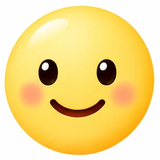
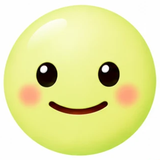
Portal: 11 wajah emoji untuk skala nyeri 0-10
Claude-Session: https://claude.ai/code/session_01173i8sz9dSwdbLdS3455aU

diff --git a/src/pages/portal/PatientPortalPage.jsx b/src/pages/portal/PatientPortalPage.jsx
@@ -412,7 +412,7 @@ const ProgramTab = ({ session, items, therapist, onToggle }) => {
 
 const PAIN_LEVELS = [[0, 'Tidak nyeri'], [3, 'Nyeri ringan'], [6, 'Nyeri sedang'], [10, 'Nyeri berat']];
 const painLabel = (v) => PAIN_LEVELS.find(([max]) => v <= max)[1];
-const painFace = (v) => `/pain/${Math.round(v * 0.9)}.png`;
+const painFace = (v) => `/pain/${v}.png`;
 
 // Skala nyeri 0-10: wajah besar yang berubah mengikuti pilihan, geser atau ketuk angka.
 const PainScale = ({ value, onChange }) => {
@@ -430,7 +430,7 @@ const PainScale = ({ value, onChange }) => {
   return (
     <div className="pain" style={{ '--pv': value / 10 }}>
       <div className="pain-hero" aria-hidden="true">
-        <img key={Math.round(value * 0.9)} src={painFace(value)} alt="" width="96" height="96" draggable="false" />
+        <img key={value} src={painFace(value)} alt="" width="96" height="96" draggable="false" />
       </div>
       <div className="pain-read" aria-live="polite"><b className="num">{value}</b>/10 — {painLabel(value)}</div>
       <div ref={track} className="pain-track" role="slider" tabIndex={0} aria-labelledby="pp-vas-l"
